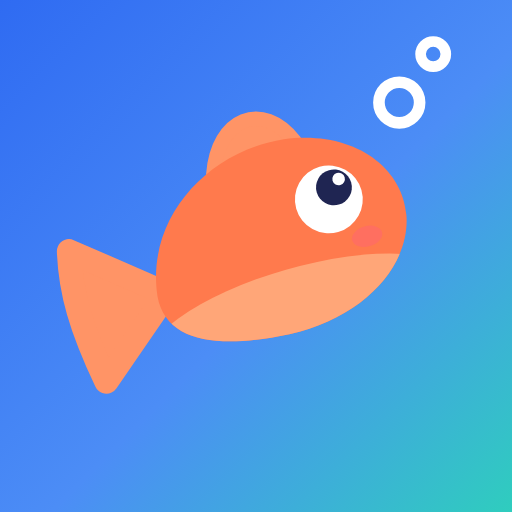
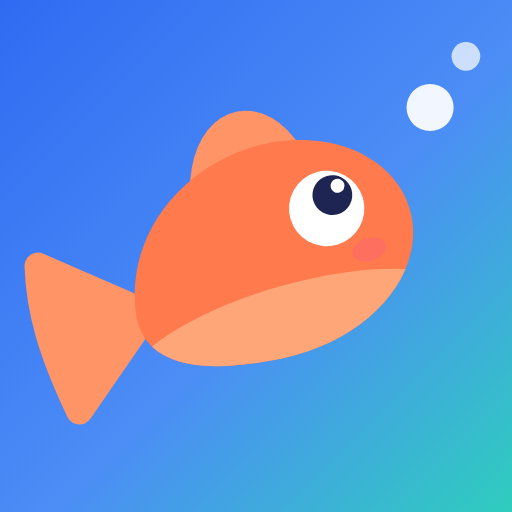
Add files via upload

diff --git a/index.html b/index.html
@@ -53,17 +53,11 @@ button{cursor:pointer;border:0;background:none;padding:0}
 .aurora i:nth-child(1){background:radial-gradient(circle, var(--mood1) 0%, transparent 58%);top:-48vmax;left:-38vmax;animation:drift1 19s ease-in-out infinite alternate}
 .aurora i:nth-child(2){background:radial-gradient(circle, var(--mood2) 0%, transparent 58%);top:-18vmax;right:-55vmax;animation:drift2 23s ease-in-out infinite alternate;opacity:.75}
 /* ogni tanto un pesciolino passa lontano, sullo sfondo */
-.swimmer{position:fixed;left:0;top:var(--top,40vh);z-index:0;pointer-events:none;opacity:0;width:var(--size,26px);height:var(--size,26px)}
-.swimmer.go{animation:swimLtr var(--dur,20s) linear forwards}
-.swimmer.rtl.go{animation-name:swimRtl}
-.swimmer .bob{width:100%;height:100%;animation:swBob 2.6s ease-in-out infinite;filter:blur(.5px) saturate(.75)}
+.swimmer{position:fixed;left:0;top:0;z-index:0;pointer-events:none;opacity:0;width:40px;height:40px;margin:-20px 0 0 -20px;will-change:transform}
+.swimmer .bob{width:100%;height:100%;filter:saturate(.95)}
 .swimmer svg{width:100%;height:100%;overflow:visible}
-.swimmer.rtl svg{transform:scaleX(-1)}
-.swimmer .tail{transform-box:view-box;transform-origin:30px 58px;animation:swTail .5s ease-in-out infinite alternate}
-@keyframes swimLtr{0%{transform:translate(-14vw,0);opacity:0}9%{opacity:.5}50%{transform:translate(46vw,-4vh)}91%{opacity:.5}100%{transform:translate(110vw,1vh);opacity:0}}
-@keyframes swimRtl{0%{transform:translate(110vw,0);opacity:0}9%{opacity:.5}50%{transform:translate(46vw,-3vh)}91%{opacity:.5}100%{transform:translate(-14vw,2vh);opacity:0}}
-@keyframes swBob{0%,100%{transform:translateY(0) rotate(-3deg)}50%{transform:translateY(-7px) rotate(4deg)}}
-@keyframes swTail{from{transform:rotate(-10deg)}to{transform:rotate(10deg)}}
+.swimmer .tail{transform-box:view-box;transform-origin:30px 58px;animation:swTail .22s ease-in-out infinite alternate}
+@keyframes swTail{from{transform:rotate(-14deg)}to{transform:rotate(14deg)}}
 @keyframes drift1{to{transform:translate(18vmax,14vmax) scale(1.12)}}
 @keyframes drift2{to{transform:translate(-14vmax,18vmax) scale(.92)}}
 
@@ -384,7 +378,7 @@ textarea.input{height:auto;min-height:100px;padding:14px 16px;line-height:1.4;re
 </svg>
 
 <header class="bar">
-  <div class="brand"><svg xmlns="http://www.w3.org/2000/svg" aria-hidden="true" viewBox="0 0 100 100"><defs><linearGradient id="lbg" x1="0" y1="0" x2="1" y2="1"><stop offset="0" stop-color="#2F6BF2"/><stop offset=".55" stop-color="#4C8DF6"/><stop offset="1" stop-color="#2FCDBE"/></linearGradient><clipPath id="lsq"><rect width="100" height="100" rx="22.5"/></clipPath></defs><g clip-path="url(#lsq)"><rect width="100" height="100" fill="url(#lbg)"/><g transform="translate(50 50) scale(0.9463960027206474) translate(-50.43 -56.67)"><defs><clipPath id="lbody"><path d="M28 58 C30 42 46 32 62 34 C76 36 84 46 82 56 C80 66 68 74 52 73 C38 72 27 68 28 58 Z"/></clipPath></defs>
+  <div class="brand"><svg xmlns="http://www.w3.org/2000/svg" aria-hidden="true" viewBox="0 0 100 100"><defs><linearGradient id="lbg" x1="0" y1="0" x2="1" y2="1"><stop offset="0" stop-color="#2F6BF2"/><stop offset=".55" stop-color="#4C8DF6"/><stop offset="1" stop-color="#2FCDBE"/></linearGradient><clipPath id="lsq"><rect width="100" height="100" rx="22.5"/></clipPath></defs><g clip-path="url(#lsq)"><rect width="100" height="100" fill="url(#lbg)"/><g transform="translate(48 53) scale(1.0515511141340528) translate(-50.43 -56.67)"><defs><clipPath id="lbody"><path d="M28 58 C30 42 46 32 62 34 C76 36 84 46 82 56 C80 66 68 74 52 73 C38 72 27 68 28 58 Z"/></clipPath></defs>
 <g class="fishbody" transform="rotate(-16 54 54)">
   <path d="M30 58 L13 44 C11 52 11 60 13 72 Z" fill="#FF9466" stroke="#FF9466" stroke-width="5" stroke-linejoin="round"/>
   <path d="M46 37 C50 26 60 25 64 35 Z" fill="#FF9466" stroke="#FF9466" stroke-width="3" stroke-linejoin="round"/>
@@ -395,8 +389,7 @@ textarea.input{height:auto;min-height:100px;padding:14px 16px;line-height:1.4;re
   <circle cx="70.6" cy="45" r="1.3" fill="#fff"/>
   <ellipse cx="73" cy="58" rx="3.2" ry="2.1" fill="#FF5E7E" opacity=".4"/>
 </g>
-<circle cx="80" cy="25" r="4.2" fill="none" stroke="#fff" stroke-width="2.4"/>
-<circle cx="87" cy="15" r="2.6" fill="none" stroke="#fff" stroke-width="2.2"/></g></g></svg>MeMo</div>
+</g><circle cx="84" cy="21" r="4.6" fill="#fff" opacity=".92"/><circle cx="91" cy="11" r="2.8" fill="#fff" opacity=".72"/></g></svg>MeMo</div>
   <div class="mini" aria-hidden="true"><span class="dot"></span><span id="miniTxt"></span></div>
   <div class="top-actions"><button class="icon-btn" id="btnSettings" aria-label="Impostazioni">
     <svg width="24" height="24" viewBox="0 0 24 24" fill="currentColor" aria-hidden="true"><circle cx="5" cy="12" r="1.8"/><circle cx="12" cy="12" r="1.8"/><circle cx="19" cy="12" r="1.8"/></svg>
@@ -412,7 +405,7 @@ textarea.input{height:auto;min-height:100px;padding:14px 16px;line-height:1.4;re
         <circle class="arc" id="ringArc" cx="100" cy="100" r="92" pathLength="100" stroke-dasharray="100" stroke-dashoffset="100" transform="rotate(-90 100 100)"/>
       </svg>
       <div class="center"><div class="num" id="heroNum"></div><div class="unit" id="heroUnit"></div>
-        <svg class="knot fish" id="heroKnot" hidden viewBox="0 0 100 100" aria-hidden="true"><g transform="translate(50 50) scale(0.9937158028566798) translate(-50.43 -56.67)"><defs><clipPath id="hbody"><path d="M28 58 C30 42 46 32 62 34 C76 36 84 46 82 56 C80 66 68 74 52 73 C38 72 27 68 28 58 Z"/></clipPath></defs>
+        <svg class="knot fish" id="heroKnot" hidden viewBox="0 0 100 100" aria-hidden="true"><g transform="translate(48 53) scale(1.1041286698407555) translate(-50.43 -56.67)"><defs><clipPath id="hbody"><path d="M28 58 C30 42 46 32 62 34 C76 36 84 46 82 56 C80 66 68 74 52 73 C38 72 27 68 28 58 Z"/></clipPath></defs>
 <g class="fishbody" transform="rotate(-16 54 54)">
   <path d="M30 58 L13 44 C11 52 11 60 13 72 Z" fill="#FF9466" stroke="#FF9466" stroke-width="5" stroke-linejoin="round"/>
   <path d="M46 37 C50 26 60 25 64 35 Z" fill="#FF9466" stroke="#FF9466" stroke-width="3" stroke-linejoin="round"/>
@@ -423,8 +416,7 @@ textarea.input{height:auto;min-height:100px;padding:14px 16px;line-height:1.4;re
   <circle cx="70.6" cy="45" r="1.3" fill="#fff"/>
   <ellipse cx="73" cy="58" rx="3.2" ry="2.1" fill="#FF5E7E" opacity=".4"/>
 </g>
-<circle cx="80" cy="25" r="4.2" fill="none" stroke="#8DA6F5" stroke-width="2.4"/>
-<circle cx="87" cy="15" r="2.6" fill="none" stroke="#8DA6F5" stroke-width="2.2"/></g></svg></div>
+</g><circle cx="84" cy="21" r="4.6" fill="#8DA6F5" opacity=".92"/><circle cx="91" cy="11" r="2.8" fill="#8DA6F5" opacity=".72"/></svg></div>
     </div>
     <h1 id="heroTitle"></h1>
     <p id="heroSub"></p>
@@ -469,7 +461,7 @@ textarea.input{height:auto;min-height:100px;padding:14px 16px;line-height:1.4;re
 
 <button class="nb" id="nb" aria-live="assertive"><span class="ni" id="nbIcon"></span><span class="nt"><span class="nh"><b>MeMo</b><span>ora</span></span><span class="nti" id="nbT"></span><span class="nbo" id="nbB"></span></span></button>
 <div class="toast" id="toast" role="status" aria-live="polite">
-  <span class="tie"><svg xmlns="http://www.w3.org/2000/svg" aria-hidden="true" viewBox="0 0 100 100"><defs><linearGradient id="lbg" x1="0" y1="0" x2="1" y2="1"><stop offset="0" stop-color="#2F6BF2"/><stop offset=".55" stop-color="#4C8DF6"/><stop offset="1" stop-color="#2FCDBE"/></linearGradient><clipPath id="lsq"><rect width="100" height="100" rx="22.5"/></clipPath></defs><g clip-path="url(#lsq)"><rect width="100" height="100" fill="url(#lbg)"/><g transform="translate(50 50) scale(0.9463960027206474) translate(-50.43 -56.67)"><defs><clipPath id="lbody"><path d="M28 58 C30 42 46 32 62 34 C76 36 84 46 82 56 C80 66 68 74 52 73 C38 72 27 68 28 58 Z"/></clipPath></defs>
+  <span class="tie"><svg xmlns="http://www.w3.org/2000/svg" aria-hidden="true" viewBox="0 0 100 100"><defs><linearGradient id="lbg" x1="0" y1="0" x2="1" y2="1"><stop offset="0" stop-color="#2F6BF2"/><stop offset=".55" stop-color="#4C8DF6"/><stop offset="1" stop-color="#2FCDBE"/></linearGradient><clipPath id="lsq"><rect width="100" height="100" rx="22.5"/></clipPath></defs><g clip-path="url(#lsq)"><rect width="100" height="100" fill="url(#lbg)"/><g transform="translate(48 53) scale(1.0515511141340528) translate(-50.43 -56.67)"><defs><clipPath id="lbody"><path d="M28 58 C30 42 46 32 62 34 C76 36 84 46 82 56 C80 66 68 74 52 73 C38 72 27 68 28 58 Z"/></clipPath></defs>
 <g class="fishbody" transform="rotate(-16 54 54)">
   <path d="M30 58 L13 44 C11 52 11 60 13 72 Z" fill="#FF9466" stroke="#FF9466" stroke-width="5" stroke-linejoin="round"/>
   <path d="M46 37 C50 26 60 25 64 35 Z" fill="#FF9466" stroke="#FF9466" stroke-width="3" stroke-linejoin="round"/>
@@ -480,8 +472,7 @@ textarea.input{height:auto;min-height:100px;padding:14px 16px;line-height:1.4;re
   <circle cx="70.6" cy="45" r="1.3" fill="#fff"/>
   <ellipse cx="73" cy="58" rx="3.2" ry="2.1" fill="#FF5E7E" opacity=".4"/>
 </g>
-<circle cx="80" cy="25" r="4.2" fill="none" stroke="#fff" stroke-width="2.4"/>
-<circle cx="87" cy="15" r="2.6" fill="none" stroke="#fff" stroke-width="2.2"/></g></g></svg></span>
+</g><circle cx="84" cy="21" r="4.6" fill="#fff" opacity=".92"/><circle cx="91" cy="11" r="2.8" fill="#fff" opacity=".72"/></g></svg></span>
   <div class="msg" id="toastMsg"></div>
   <div id="toastActions"></div>
 </div>
@@ -492,7 +483,7 @@ textarea.input{height:auto;min-height:100px;padding:14px 16px;line-height:1.4;re
 'use strict';
 const P = window.MeMoParser;
 const $ = s => document.querySelector(s);
-const VERSION = '1.18';
+const VERSION = '1.20';
 const isIOS = /iPhone|iPad|iPod/.test(navigator.userAgent);
 const isStandalone = () => window.navigator.standalone === true || matchMedia('(display-mode: standalone)').matches;
 
@@ -930,7 +921,7 @@ function toast(title, sub, actions = []) {
 function hideToast() { $('#toast').classList.remove('show'); }
 function savedToast(it) {
   const st = P.statusOf(it);
-  toast('Fatto. Puoi dimenticartelo.', st.key === 'now' ? 'Te lo ricordo da subito: lo trovi in cima.' : `Ti avviso ${remindText(st.remind, !!it.time)}.`);
+  toast(say('saved'), st.key === 'now' ? 'Te lo ricordo da subito: lo trovi in cima.' : `Ti avviso ${remindText(st.remind, !!it.time)}.`);
 }
 
 // ================= Foto =================
@@ -1081,7 +1072,7 @@ function openEditor(draft, opts = {}) {
     body.querySelector('#eChg').onclick = () => { showLeads = !showLeads; sync(); };
     body.querySelector('#eLeads').addEventListener('click', e => { const c = e.target.closest('.chip'); if (!c) return; state.leadMin = +c.dataset.m; sync(); });
     const drop = body.querySelector('#eDrop');
-    if (drop) drop.onclick = async () => { const it = items.find(x => x.id === state.id); if (it) await removeItem(it); haptic(); closeSheet(); render(); if (calOpen) renderCal(); toast('Tolto. Una cosa in meno.'); };
+    if (drop) drop.onclick = async () => { const it = items.find(x => x.id === state.id); if (it) await removeItem(it); haptic(); closeSheet(); render(); if (calOpen) renderCal(); toast(say('drop')); };
     body.querySelector('#eSave').onclick = async () => {
       const it = items.find(x => x.id === state.id) || { id: uid(), createdAt: new Date().toISOString() };
       const kindP = T(state.type).dateKind === 'purchase';
@@ -1253,37 +1244,59 @@ function askTime(res, text) {
 $('#btnVoice').addEventListener('click', openVoice);
 
 // ================= Il pesciolino di passaggio =================
-// di rado (la prima volta dopo mezzo minuto o poco più, poi ogni 3-7 minuti) attraversa lo sfondo, piccolo e lontano
+// ogni tanto sfreccia sullo sfondo: da sinistra verso destra, salendo un po', mai in linea retta e mai due volte uguale.
+// Non passa se il pesciolino è già al centro della home.
 (() => {
-  const el = $('#swimmer'); let tm = null;
-  if (!el || matchMedia('(prefers-reduced-motion: reduce)').matches) return;
+  const el = $('#swimmer'); let tm = null, anim = null;
+  if (!el || !el.animate || matchMedia('(prefers-reduced-motion: reduce)').matches) return;
   const later = ms => { clearTimeout(tm); tm = setTimeout(swim, ms); };
-  const free = () => document.visibilityState === 'visible' && page === 'home' && $('#sheetWrap').hidden && !document.querySelector('.intro') && window.scrollY < innerHeight * 0.4;
+  const free = () => document.visibilityState === 'visible' && page === 'home' && $('#sheetWrap').hidden && !document.querySelector('.intro')
+    && window.scrollY < innerHeight * 0.4 && $('#heroKnot').hasAttribute('hidden');
   function swim(force) {
-    if (!force && !free()) { later(45000); return; }
-    const ltr = Math.random() < 0.6, dur = 17 + Math.random() * 7;
-    el.className = 'swimmer';
-    el.style.cssText = `--top:${(16 + Math.random() * 46).toFixed(1)}vh;--size:${(22 + Math.random() * 10).toFixed(0)}px;--dur:${dur.toFixed(1)}s`;
-    void el.offsetWidth; el.className = `swimmer ${ltr ? 'ltr' : 'rtl'} go`;
-    setTimeout(() => { el.className = 'swimmer'; }, dur * 1000 + 300);
-    if (!force) later((180 + Math.random() * 240) * 1000);
+    if (!force && !free()) { later(20000); return; }
+    if (anim) anim.cancel();
+    const W = innerWidth, H = innerHeight, r = Math.random;
+    const size = 36 + r() * 14, x0 = -size, x1 = W + size;
+    const y0 = H * (0.42 + r() * 0.3), rise = H * (0.14 + r() * 0.2);           // sale verso destra
+    const A = H * (0.025 + r() * 0.035), k = 0.8 + r() * 1.1, ph = r() * 6.28;      // ondeggia
+    const dart = 0.05 + r() * 0.05, dk = 1.5 + r() * 1.5;                           // scatti di velocità
+    const X = f => x0 + (x1 - x0) * (f + dart * Math.sin(6.283 * dk * f) / (6.283 * dk) * 2.5);
+    const Y = f => y0 - rise * (f * f * 0.4 + f * 0.6) + A * Math.sin(6.283 * k * f + ph) - A * Math.sin(ph);
+    const N = 48, frames = [];
+    for (let i = 0; i <= N; i++) {
+      const f = i / N, e = 0.002, ang = Math.atan2(Y(f + e) - Y(f - e), X(f + e) - X(f - e)) * 57.3;
+      frames.push({ transform: `translate(${X(f).toFixed(1)}px,${Y(f).toFixed(1)}px) rotate(${ang.toFixed(1)}deg) scale(${(size / 40).toFixed(3)})`, opacity: i === 0 || i === N ? 0 : 0.85 });
+    }
+    anim = el.animate(frames, { duration: 3200 + r() * 1800, easing: 'linear' });
+    anim.onfinish = () => { anim = null; };
+    if (!force) later((55 + r() * 75) * 1000);
   }
-  later((30 + Math.random() * 40) * 1000);
+  later((12 + r0() * 18) * 1000);
+  function r0() { return Math.random(); }
   window.memoSwim = () => swim(true);
 })();
 
 // ================= Fatto =================
+// lo stesso concetto, con parole sempre diverse (e mai due volte di fila la stessa)
+const SAYINGS = {
+  done: ['Fatto. Una cosa in meno.', 'Fatto! Testa più leggera.', 'Ecco fatto. Una in meno.', 'Bravo, spuntato.', 'Fatto. Me lo scordo anche io.', 'Una cosa in meno a cui pensare.', 'Fatto. Avanti il prossimo.', 'Ottimo, archiviato.', 'Fatto e dimenticato.'],
+  drop: ['Tolto. Una cosa in meno.', 'Via, non ci pensiamo più.', 'Tolto. Più spazio in testa.', 'Sparito. Come se non fosse mai esistito.', 'Tolto di mezzo.'],
+  again: ['Fatto. Alla prossima.', 'Fatto. Ci rivediamo al prossimo giro.', 'Fatto. Il prossimo lo tengo io.', 'Spuntato. Alla prossima volta.'],
+  saved: ['Fatto. Puoi dimenticartelo.', 'Segnato. Ora non ci pensare più.', 'Ce l\'ho io. Tu pensa ad altro.', 'Fatto. Da qui ci penso io.', 'Preso nota. Puoi lasciarlo andare.']
+};
+const lastSaid = {};
+function say(kind) { const a = SAYINGS[kind]; let k; do { k = Math.floor(Math.random() * a.length); } while (a.length > 1 && k === lastSaid[kind]); lastSaid[kind] = k; return a[k]; }
 async function doneItem(it) {
   const ty = T(it.type);
   if (ty.done === 'renew') { openEditor({ id: it.id, type: it.type, title: it.title, date: null }, { head: 'Ottimo. Quando scade il nuovo?', sub: 'Inserisci la nuova scadenza e te la ricordo io. Se non ti serve più, toglilo.', typeLocked: true, markMissing: true, renew: true }); return false; }
   haptic();
   if (ty.done === 'reschedule') {
     const old = it.due; it.due = P.addMonths(it.due, ty.recur); await DB.put(it); render();
-    toast('Fatto. Alla prossima.', `Te lo ricordo di nuovo: ${whenText(it)}.`, [{ label: 'Annulla', fn: async () => { it.due = old; await DB.put(it); render(); } }]);
+    toast(say('again'), `Te lo ricordo di nuovo: ${whenText(it)}.`, [{ label: 'Annulla', fn: async () => { it.due = old; await DB.put(it); render(); } }]);
   } else {
     const photo = it.photoId ? await DB.photoGet(it.photoId) : null;
     await removeItem(it); render();
-    toast('Fatto. Una cosa in meno.', null, [{ label: 'Annulla', fn: async () => { await DB.put(it); if (photo) await DB.photoPut(it.photoId, photo); items.push(it); render(); } }]);
+    toast(say('done'), null, [{ label: 'Annulla', fn: async () => { await DB.put(it); if (photo) await DB.photoPut(it.photoId, photo); items.push(it); render(); } }]);
   }
   return true;
 }

diff --git a/sw.js b/sw.js
@@ -1,5 +1,5 @@
 /* MeMo — funziona anche offline. Cambia VERSION quando aggiorni i file su GitHub. */
-const VERSION = 'memo-v1.18';
+const VERSION = 'memo-v1.20';
 const SHELL = ['./', 'index.html', 'parser.js', 'notify.js', 'manifest.json', 'icon-192.png', 'icon-512.png', 'apple-touch-icon.png'];
 
 self.addEventListener('install', e => {
